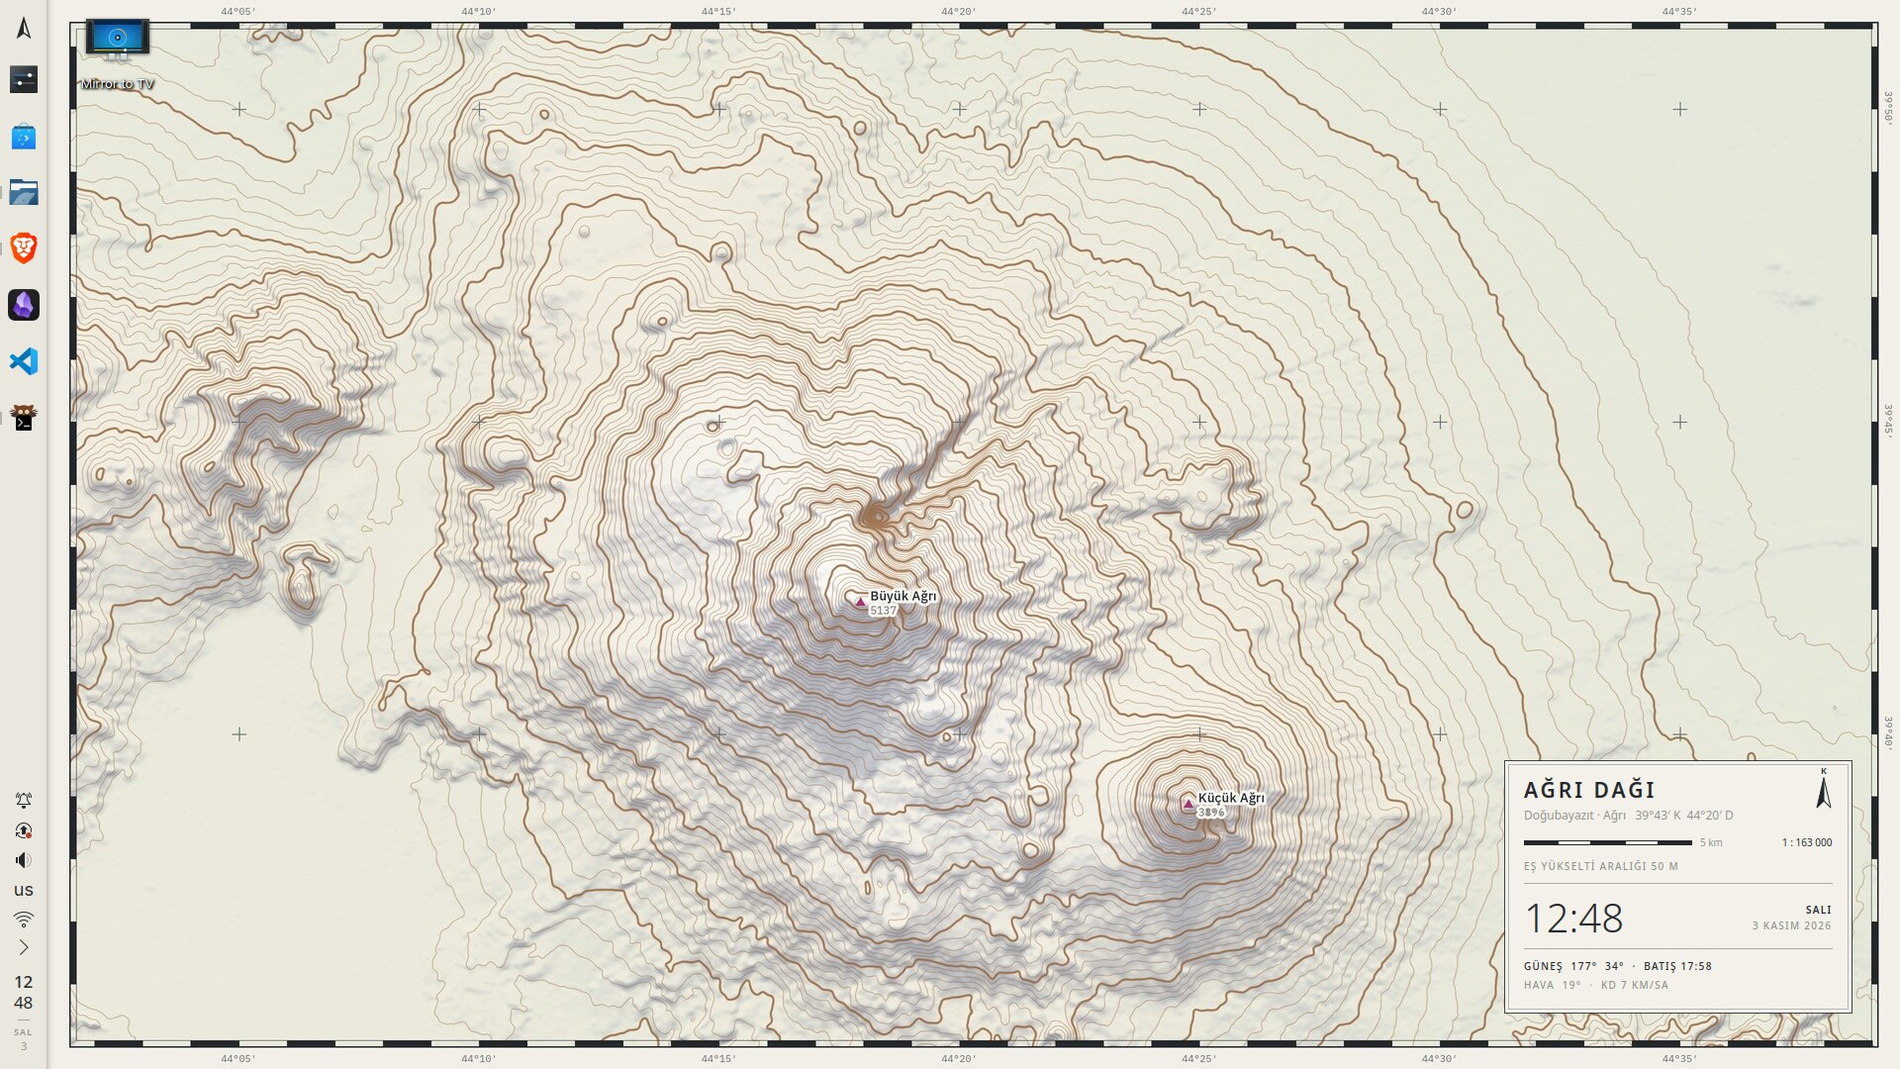
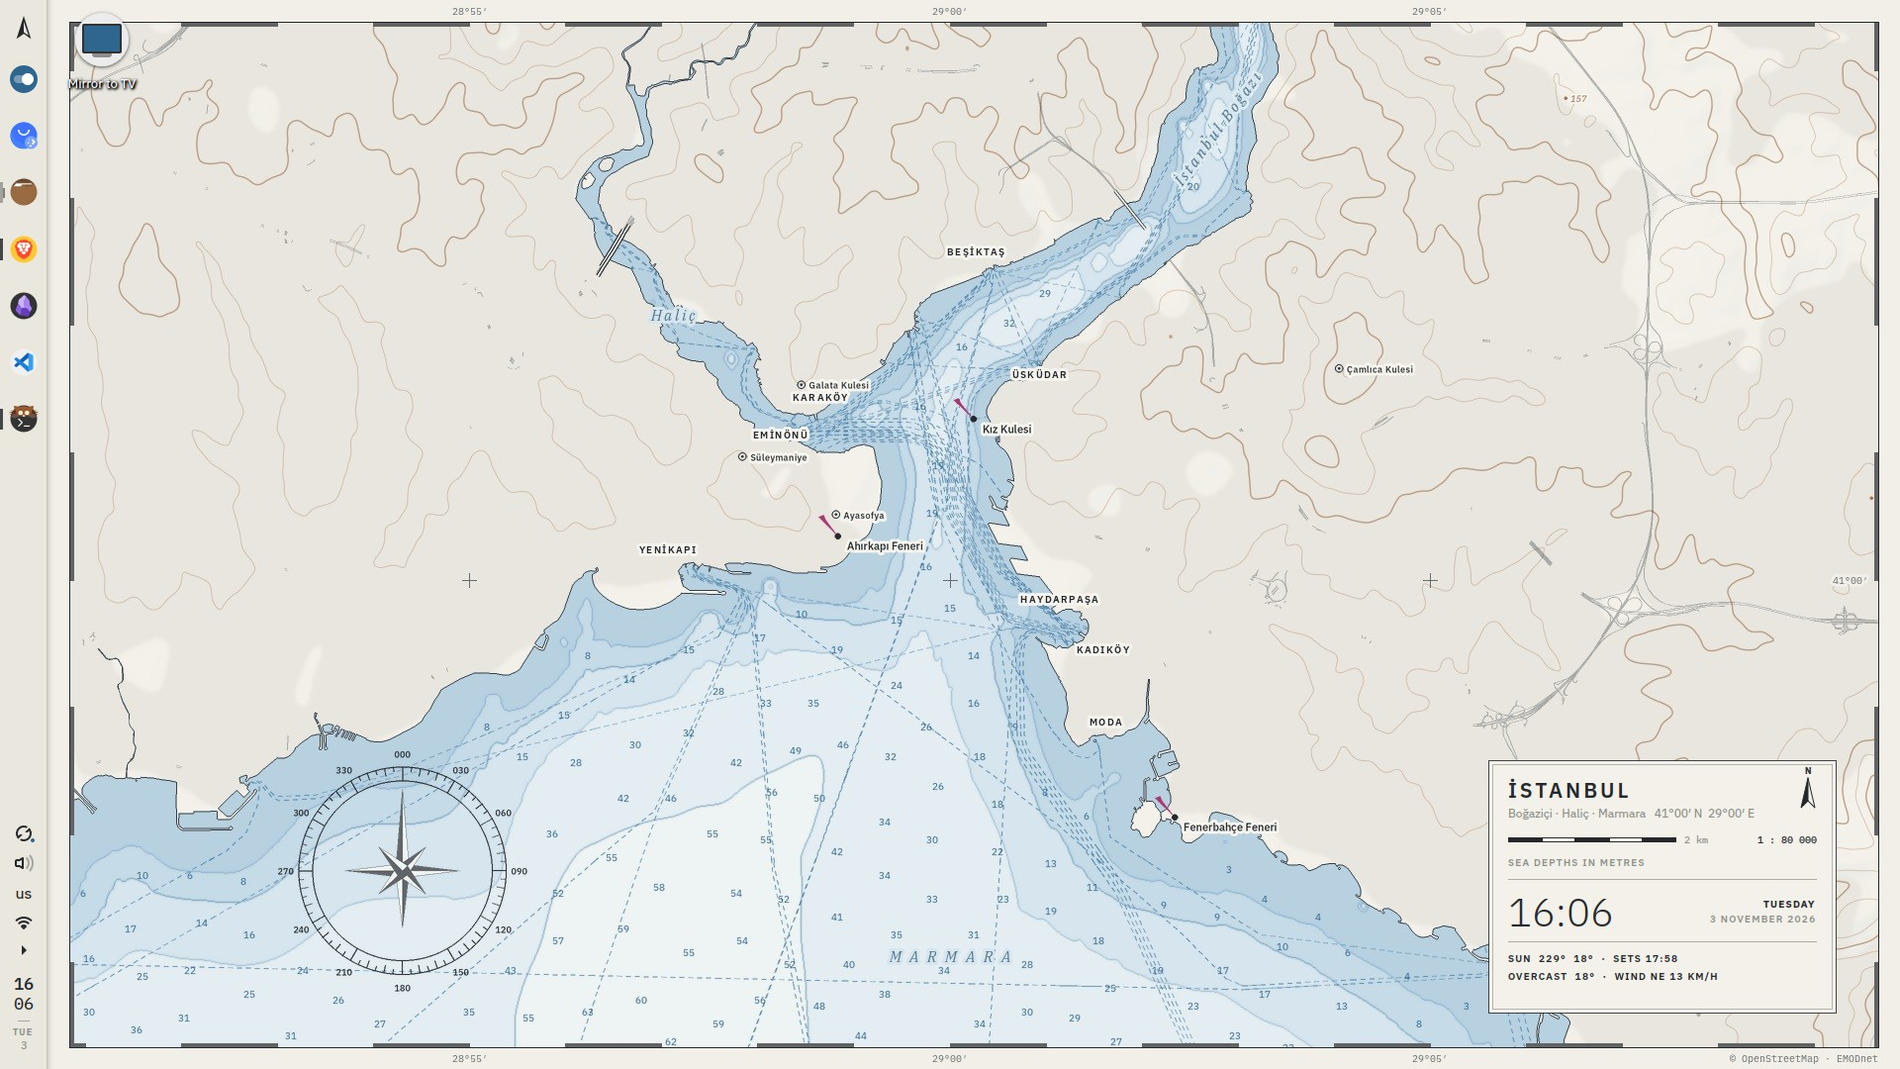
Chart-style land, visible rail ticks, lighter frame, docs to match
- land: flat paper, the town as one tint from street density, 50/100 m contours, spot heights,
  motorways only; no street grid, no parks (it read as a web map)
- water: ponds dropped by merged size, so tile pieces no longer bite square notches in the shore
- the strait lettered along the channel; latitudes inside the neatline; minute bands a tone
  under the ink; the rose a shade lighter
- rail ticks 3px and long enough to see (12px running, 28px focused)
- drop the dead live-reprint signature (--if-changed); README and DESIGN describe what ships

diff --git a/plasma/desktoptheme/build.py b/plasma/desktoptheme/build.py
@@ -112,16 +112,16 @@ TASK_MARGINS = (8, 5)  # across the panel, along it: 32px icons on the 48px rail
 def task_states(p):
     ink, mag, och, ink3, raised = p["ink"], p["magenta"], p["ochre"], p["ink3"], p["raised"]
     return {  # wash (colour, opacity), tick (colour, opacity, length-mode)
-        "normal": ((raised, 0), (ink, 0.55, "short")),
+        "normal": ((raised, 0), (ink, 0.85, "short")),
         "hover": ((raised, 0.55), None),
         "focus": ((raised, 0.75), (mag, 1, "long")),
         "attention": ((och, 0.14), (och, 1, "long")),
-        "minimized": ((raised, 0), (ink3, 0.6, "short")),
+        "minimized": ((raised, 0), (ink3, 0.8, "short")),
         "progress": ((p["blue"], 0.18), None),
-        "normal-hover": ((raised, 0.55), (ink, 0.55, "short")),
+        "normal-hover": ((raised, 0.55), (ink, 0.85, "short")),
         "focus-hover": ((raised, 0.9), (mag, 1, "long")),
         "attention-hover": ((och, 0.2), (och, 1, "long")),
-        "minimized-hover": ((raised, 0.55), (ink3, 0.6, "short")),
+        "minimized-hover": ((raised, 0.55), (ink3, 0.8, "short")),
         "launcher-hover": ((raised, 0.55), None),
     }
 
@@ -165,7 +165,8 @@ def task_frame(prefix, state, side, wash, tick, ox, oy):
     rect = lambda x, y, w, h, st: f'<rect x="{x}" y="{y}" width="{w}" height="{h}" style="{st}"/>'
     blank = lambda w, h: rect(0, 0, w, h, "fill:#000;fill-opacity:0")
     ins = 3  # wash inset from the button edges
-    cw = 22 if tick and tick[2] == "short" else 14  # wider corners = shorter tick
+    # wider corners = shorter tick: on the rail's 48px slots, about 12px running, 28px focused
+    cw = 18 if tick and tick[2] == "short" else 10
     pieces = {
         "topleft": (cw, CH, blank(cw, CH) + rect(ins, ins, cw - ins, CH - ins, wash_st)),
         "topright": (cw, CH, blank(cw, CH) + rect(0, ins, cw - ins, CH - ins, wash_st)),
@@ -179,7 +180,7 @@ def task_frame(prefix, state, side, wash, tick, ox, oy):
     }
     if tick:
         w, h, body = pieces["bottom"]
-        pieces["bottom"] = (w, h, body + rect(0, h - 2, w, 2, f"fill:{tick[0]};fill-opacity:{tick[1]}"))
+        pieces["bottom"] = (w, h, body + rect(0, h - 3, w, 3, f"fill:{tick[0]};fill-opacity:{tick[1]}"))
     flips = {"bottom": "", "top": "v", "right": "t", "left": "th"}[side]
     rename = {
         "v": {"top": "bottom", "bottom": "top", "topleft": "bottomleft", "bottomleft": "topleft",

diff --git a/DESIGN.md b/DESIGN.md
@@ -4,9 +4,9 @@ The vision, rules and decisions behind this rice, written so a later session can
 
 ## The idea
 
-*Pafta* is Turkish for a map sheet: one numbered sheet of a national topographic survey. The desktop is such a sheet. Real terrain (Ağrı Dağı, Nemrut's caldera, Erciyes, the Bosphorus) is drawn as a shaded relief with contour lines, set in a printed frame with a graticule, minute bands and a title block.
+*Pafta* is Turkish for a map sheet. The desktop is one: a nautical chart of İstanbul, where the Bosphorus, the Golden Horn and the Marmara meet, set in a printed frame with a graticule, minute bands and a title block. It is İstanbul because Melih lives there; the mountain sheets of the first version (Ağrı, Nemrut, Erciyes) were well drawn but felt random to him, and were dropped.
 
-The sheet comes as two fixed plates: paper by day, lit from the north-west as map makers light relief, and at night a chart, copper contours on slate. They're printed once; the desktop changes plate at sunrise and sunset with the colours. An earlier version reprinted the sheet every ten minutes under the real sun, which cost a render each time for a change you couldn't notice. What does move, the clock, the sun and moon, the weather, lives in the title-block widget. Nothing is a stock wallpaper: the elevation is the public SRTM model and every pixel is computed by `bin/pafta-print`.
+The sheet comes as two fixed plates: paper by day and a night chart on slate. They're printed once; the desktop changes plate at sunrise and sunset with the colours. An earlier version reprinted the sheet every ten minutes under the real sun, which cost a render each time for a change you couldn't notice. What does move, the clock, the sun and moon, the weather, lives in the title-block widget. Nothing is a stock wallpaper: the elevation is the public SRTM model and every pixel is computed by `bin/pafta-print`.
 
 Why this and not another dark rice: Ukiyo, the rice before this one, is a dark woodblock print. Pafta is light first, because Melih found the dark desktop gloomy by day and likes his white browser. It goes dark only when it's dark outside, the way a ship's chart display changes palette at dusk.
 
@@ -28,31 +28,34 @@ Rules:
 - **Magenta is the overprint**, the "you are here" ink. It marks the one thing that is current: the active task on the rail, the summit triangles, the cursor. If it shows up on a surface, it's a mistake.
 - **Square corners.** A map sheet, an inset and a legend box are rectangles. Windows, popups and the rail have no rounding.
 - **Keylines, not shadows, separate things.** A window is a map inset: a 1px keyline and a narrow mat. A popup is a legend box: a keyline and a thin inner rule. Shadows stay soft and short.
-- **Type is the survey's**: IBM Plex Sans for the UI, Plex Mono for coordinates and numbers, Plex Serif Italic for water (the cartographic convention), small caps letter-spaced for legend text. Map text is in Turkish: it is a Turkish survey sheet.
+- **Type is the survey's**: IBM Plex Sans for the UI, Plex Mono for coordinates and numbers, Plex Serif Italic for water (the cartographic convention), small caps letter-spaced for legend text. Place names stay Turkish (they are names); everything else, legend lines, days, months, units, is English. Melih asked for that; don't "restore" Turkish legend text for authenticity.
+- **Subtract before adding.** When the sheet feels busy or generic, the fix has been to take a layer away (the street grid, the parks, the live reprint), not to add one (a skyline, landmarks, a star disc were all tried and rejected).
 
 ## Layout
 
 - **One rail on the left, docked, 48px.** A 16:9 laptop has width to spare and height to save, so the panel stands up. It is the sheet's margin: flat header paper with one hairline where it meets the map. Top to bottom: the north arrow (launcher), pinned apps, a spacer, the tray, and the clock as hours over minutes.
 - **Task ticks** sit on the screen edge like graticule ticks: a short ink tick for a running app, a long magenta one for the active app, ochre for attention, faint for minimised.
-- **The legend widget** (`org.pafta.legend`) is the sheet's title block, live: sheet name (click for the next sheet, right-click for the previous), region and coordinates, a scale bar true to this 15.6" screen, the contour interval, the time, the sun or moon, and the weather (Open-Meteo). It sits in the corner the print leaves for it.
+- **The legend widget** (`org.pafta.legend`) is the sheet's title block, live: sheet name, region and coordinates, a scale bar true to this 15.6" screen, what the numbers on the sheet mean, the time, the sun or moon, and the weather (Open-Meteo). It sits in the bottom-right corner, over land.
 - **No tiling.** Windows float, as insets on the sheet.
 
 ## How the print is made (`bin/pafta-print`)
 
-1. Elevation tiles (AWS Terrarium, zoom 12, about 30 m per pixel), cached in `~/.cache/pafta/dem`.
-2. The sun and moon are computed locally (low-precision almanac formulas, no network). The light is the sun's when it is up, the moon's at night, and a faint fixed sky light otherwise.
-3. **The light's path is mirrored to cross the top of the sheet.** A relief lit from the bottom of the screen reads inside out (valleys look like ridges), so a southern sun is reflected to the north: morning light comes from the right, noon from the top and evening from the left.
-4. Shading: a soft sky light plus the key light with ray-marched cast shadows. Shadows are violet-blue and lit slopes warm (Imhof); both turn gold when the sun is low.
-5. Water is found as perfectly flat ground (or ground below sea level) and drawn with the engraver's **water lines** along the shore.
-6. Contours come from a generalised surface: thin every interval, heavy every index. Labels are knocked out of the map with a halo, as on a printed sheet.
-7. The frame: a paper margin, outer and inner rules with minute bands between them, coordinates in the margin, and graticule crosses every five minutes.
+The chart style (İstanbul):
+
+1. **Water is the subject.** The coast from OpenStreetMap water polygons (tiles cut the sea into pieces; ponds are dropped by their merged size, never piece by piece, or the shore gets square bites). Depths from EMODnet as five tint bands from shallow blue to deep paper, isobaths, a dark shore line. Soundings only in open water, 650 m from any shore (EMODnet's 115 m cells average the narrows into their banks).
+2. **Land the way charts draw it, not web maps.** Flat paper; the town as one quiet tint where the street network is dense (streets are used only to find the town, never drawn); 50 m contours in the brown plate, heavier every 100 m, from the SRTM surface; spot heights on the highest hilltops; only motorways as a hairline. No parks, no street grid: those are what made it read as Google Maps. A breath of relief (7%).
+3. **The marks**, on a 2x overlay: ferry routes dashed, bridges as cased lines, lights with magenta flares, conspicuous objects as ⊙, the compass rose a shade under the ink. Water names in Plex Serif Italic, lettered along a strait when the sheet gives an `angle`.
+4. **The frame**: a paper margin, outer and inner rules with a minute band a tone under the ink between them, longitudes in the margin, latitudes inside the neatline, graticule crosses every five minutes.
+
+The topographic style (any mountain sheet added to `sheets/`) is still there: shaded relief with cast shadows, Imhof colours, contours, water lines. Its light's path is mirrored to cross the top of the sheet, because relief lit from the bottom of the screen reads inside out.
 
 ## Day and night
 
-Kigae's `[daynight]` switches the window colours, the Plasma style and the decoration at sunrise and sunset (two of each: paper and night). kitty, VS Code, Neovim and Claude Code follow the system's light/dark preference. The print follows the sun on its own: day, golden hour, blue hour, night.
+Kigae's `[daynight]` switches the window colours, the Plasma style, the decoration, the wallpaper plate and the lock screen image at sunrise and sunset (two of each: paper and night); its hook points the fastfetch inset at the matching plate. kitty, VS Code, Neovim and Claude Code follow the system's light/dark preference. The plates are static: the earlier live reprint every 10 minutes cost hundreds of MB per render for a change nobody noticed.
 
 ## Decisions
 
 - Two Plasma styles (and two decorations) instead of one that follows the colour scheme: Plasma's SVG colour classes have no role for an accent other than the selection colour, and the ticks need the overprint magenta.
-- Kaçkar was dropped as a sheet: at any zoom it is a wall of ridges, too busy behind windows.
-- The title block is a live widget rather than baked into the print, so the time is current and the sheet can be turned by clicking it. `pafta-print` without `--no-legend` still bakes it in, for a lock screen print.
+- Kaçkar was dropped as a sheet: at any zoom it is a wall of ridges, too busy behind windows. Later the whole atlas went: İstanbul is the sheet.
+- A star chart (the sky over İstanbul, and as a star-finder disc on the chart) was built and shelved on branch `sky-test`: beautiful, but it competed with the chart and its point, being live, didn't survive going static.
+- The title block is a live widget rather than baked into the print, so the time and the weather are current. `pafta-print` without `--no-legend` still bakes it in, for a lock screen print.

diff --git a/README.md b/README.md
@@ -1,38 +1,31 @@
 # Pafta
 
-*Pafta* is Turkish for a map sheet. This KDE Plasma 6 rice turns the desktop into one: a survey sheet of real Turkish terrain, printed on paper by day and as a chart at night. The prints are fixed plates, made once; what moves (the time, the sun and moon, the weather) is in the title-block widget.
+*Pafta* is Turkish for a map sheet. This KDE Plasma 6 rice turns the desktop into one: a nautical chart of İstanbul, where the Bosphorus, the Golden Horn and the Marmara meet, printed on paper by day and as a night chart after dark. The prints are fixed plates, made once; what moves (the time, the sun and moon, the weather) is in the title-block widget.
 
-![Ağrı Dağı at noon](docs/desktop.jpg)
+![the paper plate](docs/desktop.jpg)
 
-![the same sheet at night](docs/night.jpg)
-
-| | |
-|---|---|
-| ![İstanbul Boğazı](docs/sheet-istanbul.jpg) | ![Erciyes](docs/sheet-erciyes.jpg) |
-| İstanbul Boğazı, with water lines along the shore | Erciyes |
-| ![Ağrı at dusk](docs/agri-dusk.jpg) | |
-| Ağrı Dağı at dusk: gold slopes, violet shadows | |
+![the night plate](docs/night.jpg)
 
 ## What's in it
 
-- **The print** (`bin/pafta-print`): shaded relief from the public SRTM elevation model (AWS Terrarium tiles), with sun and moon positions computed locally. It draws cast shadows, Imhof-style violet shadows and warm lit slopes, contours, water lines, a graticule frame with minute bands, and spot heights. The light's path is mirrored across the top of the sheet so the relief never reads inside out. `pafta-sun prints` makes each sheet's paper and night plates once; Kigae puts up the one for the hour at sunrise and sunset, and the timer only refreshes the widgets' almanac.
-- **The atlas** (`sheets/`): Ağrı Dağı, Nemrut, Erciyes, İstanbul Boğazı. A sheet is a small TOML file: centre, zoom, contour interval, labels. `osm = true` adds the OpenStreetMap plates (roads, bridges, rail, ferries, woods, exact water), as on İstanbul.
+- **The print** (`bin/pafta-print`): the water is the subject, drawn the way a harbour chart draws it: EMODnet depth bands and isobaths, soundings in open water, ferry routes, lights with magenta flares, conspicuous objects and a compass rose. The land is drawn the way charts draw land, not the way web maps do: flat paper, the town as one tint (generalised from street density), 50 m contours in the brown plate from the SRTM elevation model, spot heights, and only the motorways. A graticule frame with minute bands holds it. `pafta-sun prints` makes the paper and night plates of the current sheet once (again only when the sheet or the renderer changes); Kigae puts up the one for the hour at sunrise and sunset, and the timer only refreshes the widgets' almanac.
+- **The sheet** (`sheets/istanbul.toml`): a small TOML file with the centre, zoom, labels, lights, landmarks and the rose. The renderer still draws mountain sheets (shaded relief, contours, cast shadows) if you add one; `pafta-sun sheet <id>` puts it up.
 - **Rail**: one docked 48px panel on the left, the sheet's margin. It holds a north-arrow launcher, apps with graticule ticks (magenta for the active one), the tray, and `org.pafta.railclock` (hours over minutes, plus a calendar with sunrise and sunset).
-- **Legend** (`org.pafta.legend`): the sheet's title block as a live widget. It shows the name, coordinates, a scale bar true to a 15.6" screen, the time, the sun or moon, and the weather (Open-Meteo). Click the name for the next sheet.
+- **Legend** (`org.pafta.legend`): the sheet's title block as a live widget. It shows the name, coordinates, a scale bar true to a 15.6" screen, the time, the sun or moon, and the weather (Open-Meteo).
 - **Plasma styles** `pafta-paper` and `pafta-night`: square legend-box popups with a keyline and an inner rule.
 - **Window decoration** `PaftaPaper` / `PaftaNight` (Aurorae): square map insets, a 1px keyline, flush-left titles, thin glyph buttons.
 - **Colour schemes** `PaftaPaper` / `PaftaNight`, generated from `palette.toml`. Every colour is a printing plate.
 - **Apps**: kitty, Konsole, Kate/KWrite, VS Code (`apps/vscode/pafta-theme`), Neovim (`~/.config/pafta/nvim`), and a p10k prompt. All switch between paper and night.
 - **Type**: IBM Plex Sans, Plex Mono, Plex Serif Italic (water names), BlexMono Nerd Font in the terminal.
 
-- **Lock screen** (`plasma/lockscreen/org.pafta.lockscreen`): the desktop's legend box plus a password field, over the print with even margins. Picked through `plasmashellrc [Shell] ShellPackage`; a plasmashell drop-in names the desktop shell explicitly so plasmashell never loads the lock package, and the package falls back to `org.kde.plasma.desktop` regardless. `pafta-sun` keeps the box's sheet details current in `kscreenlockerrc`.
-- **Login** (`sddm/`): the same box over a dawn, day, dusk or night print chosen by the sun at login. `sddm/build.sh && pkexec sddm/install-sddm-theme.sh`; undo with `pkexec sddm/revert-sddm-theme.sh`; try it first with `sddm/preview.sh`.
+- **Lock screen** (`plasma/lockscreen/org.pafta.lockscreen`): the desktop's legend box plus a password field, over the print with even margins. Picked through `plasmashellrc [Shell] ShellPackage`; a plasmashell drop-in names the desktop shell explicitly so plasmashell never loads the lock package, and the package falls back to `org.kde.plasma.desktop` regardless. `pafta-sun` writes the box's sheet details to `kscreenlockerrc`, and the lock image follows the paper or night plate.
+- **Login** (`sddm/`): the same box over the paper or night plate, chosen by the sun at login. `sddm/build.sh && pkexec sddm/install-sddm-theme.sh`; undo with `pkexec sddm/revert-sddm-theme.sh`; try it first with `sddm/preview.sh`.
 
 Design notes and rules are in [DESIGN.md](DESIGN.md).
 
 ## Install
 
-Needs KDE Plasma 6 (Wayland), [uv](https://docs.astral.sh/uv/) (the renderer is a uv script with numpy, scipy and pillow), and these fonts in `~/.local/share/fonts`: [IBM Plex](https://github.com/IBM/plex/releases) Sans, Mono and Serif, and BlexMono from [Nerd Fonts](https://github.com/ryanoasis/nerd-fonts/releases). Icons: [Tela-circle](https://github.com/vinceliuice/Tela-circle-icon-theme) in the contour brown: `./install.sh 9A6A42` (not `-c`, which makes the folders circular).
+Needs KDE Plasma 6 (Wayland), [uv](https://docs.astral.sh/uv/) (the renderer is a uv script with numpy, scipy and pillow), jq, a network connection the first time (elevation, map and depth data are downloaded once and cached), and these fonts in `~/.local/share/fonts/pafta`: [IBM Plex](https://github.com/IBM/plex/releases) Sans, Mono and Serif, and BlexMono from [Nerd Fonts](https://github.com/ryanoasis/nerd-fonts/releases). Icons: [Tela-circle](https://github.com/vinceliuice/Tela-circle-icon-theme) in the contour brown: `./install.sh 9A6A42` (not `-c`, which makes the folders circular).
 
 With [Kigae](https://github.com/melihgurlek/Kigae) (live rice switching):
 
@@ -43,7 +36,7 @@ kigae install pafta && kigae apply pafta
 kigae deep pafta      # the login screen too (one password prompt; needs sddm/ installed first)
 ```
 
-Without it: `./install.sh` copies everything and applies the day look. `./install.sh --panels` also replaces your panels with the rail (it does not save your old layout).
+Without it: `./install.sh` copies everything, prints the plates and applies the day look with its wallpaper and lock screen (`--night` for the night one; without Kigae it doesn't follow the sun). `./install.sh --panels` also replaces your panels and desktop widgets with the rail and the legend (it does not save your old layout). If the lock screen ever fails to load: Ctrl+Alt+F3, log in, `loginctl unlock-session`.
 
 Settings live in `~/.config/pafta/pafta.toml`, and all of them are optional:
 
@@ -53,13 +46,13 @@ lon = 28.98
 screen_inches = 15.6   # for the true scale bar
 size = "1920x1080"
 rail = 48              # the print leaves this much margin on the left for the panel
-sheet = "istanbul"
+sheet = "istanbul"     # the first sheet; `pafta-sun sheet <id>` changes it after that
 ```
 
-`pafta-sun next`, `pafta-sun sheet istanbul` and `pafta-sun sheets` turn the atlas. `pafta-print --at 2026-11-03T17:40 --out dusk.png` prints any moment.
+`pafta-print --plate night --out night.png` prints a plate; `pafta-print --at 2026-11-03T17:40 --out dusk.png` prints the sheet under the sun of any moment.
 
 ## Credits
 
-Elevation: SRTM via the [AWS Terrain Tiles](https://registry.opendata.aws/terrain-tiles/) open dataset. Roads, rail, ferries, woods and water on the İstanbul sheet: © [OpenStreetMap](https://www.openstreetmap.org/copyright) contributors, served as vector tiles by [OpenFreeMap](https://openfreemap.org). Weather: [Open-Meteo](https://open-meteo.com). Fonts: IBM Plex (OFL).
+Elevation: SRTM via the [AWS Terrain Tiles](https://registry.opendata.aws/terrain-tiles/) open dataset. Coast, streets (for the built-up tint), motorways, bridges and ferries: © [OpenStreetMap](https://www.openstreetmap.org/copyright) contributors, served as vector tiles by [OpenFreeMap](https://openfreemap.org). Depths: [EMODnet Bathymetry](https://emodnet.ec.europa.eu/en/bathymetry). Weather: [Open-Meteo](https://open-meteo.com). Fonts: IBM Plex (OFL).
 
 Designed and built by Claude for Melih Gürlek.
